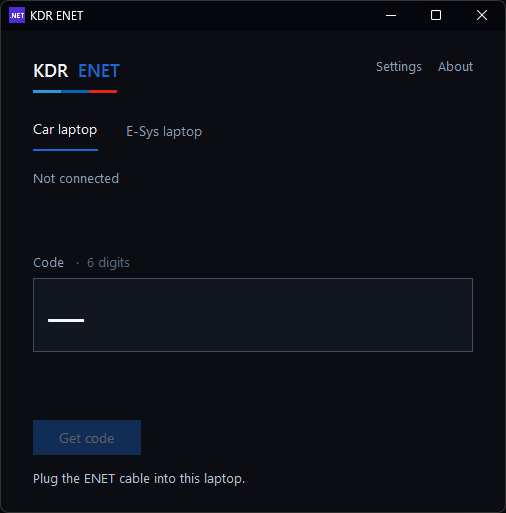
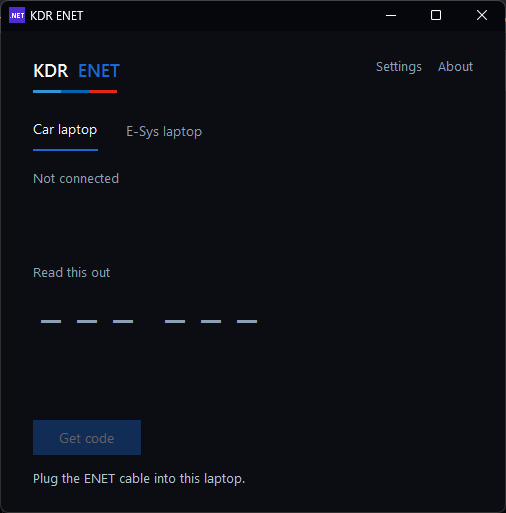
Split the session code into six boxes, and show the car laptop a readout instead.

diff --git a/MainWindow.xaml b/MainWindow.xaml
@@ -89,25 +89,42 @@
             </Setter>
         </Style>
 
-        <Style x:Key="CodeBox" TargetType="TextBox">
+        <Style x:Key="DigitBox" TargetType="TextBox">
+            <Setter Property="Width" Value="56"/>
+            <Setter Property="Height" Value="64"/>
+            <Setter Property="MaxLength" Value="1"/>
+            <Setter Property="FontSize" Value="26"/>
+            <Setter Property="FontWeight" Value="SemiBold"/>
             <Setter Property="Background" Value="#12161e"/>
             <Setter Property="Foreground" Value="#f4f7fb"/>
             <Setter Property="CaretBrush" Value="#f4f7fb"/>
             <Setter Property="BorderBrush" Value="#3d4d66"/>
             <Setter Property="BorderThickness" Value="1"/>
-            <Setter Property="FontSize" Value="32"/>
-            <Setter Property="MinHeight" Value="64"/>
-            <Setter Property="Padding" Value="14,10"/>
+            <Setter Property="HorizontalContentAlignment" Value="Center"/>
             <Setter Property="VerticalContentAlignment" Value="Center"/>
+            <Setter Property="Margin" Value="0,0,8,0"/>
             <Setter Property="Template">
                 <Setter.Value>
                     <ControlTemplate TargetType="TextBox">
-                        <Border Background="{TemplateBinding Background}" BorderBrush="{TemplateBinding BorderBrush}" BorderThickness="{TemplateBinding BorderThickness}" Padding="{TemplateBinding Padding}">
-                            <ScrollViewer x:Name="PART_ContentHost" VerticalAlignment="Center"/>
+                        <Border Background="{TemplateBinding Background}" BorderBrush="{TemplateBinding BorderBrush}" BorderThickness="{TemplateBinding BorderThickness}">
+                            <ScrollViewer x:Name="PART_ContentHost" HorizontalAlignment="Center" VerticalAlignment="Center"/>
                         </Border>
                     </ControlTemplate>
                 </Setter.Value>
             </Setter>
+        </Style>
+
+        <Style x:Key="DigitRead" TargetType="TextBlock">
+            <Setter Property="FontSize" Value="40"/>
+            <Setter Property="FontWeight" Value="SemiBold"/>
+            <Setter Property="Width" Value="36"/>
+            <Setter Property="TextAlignment" Value="Center"/>
+            <Setter Property="Foreground" Value="#8ea0b5"/>
+            <Style.Triggers>
+                <DataTrigger Binding="{Binding CodeReady}" Value="True">
+                    <Setter Property="Foreground" Value="#f4f7fb"/>
+                </DataTrigger>
+            </Style.Triggers>
         </Style>
 
         <Style x:Key="TextButton" TargetType="Button">
@@ -169,28 +186,30 @@
 
         <StackPanel Grid.Row="3" VerticalAlignment="Center">
             <StackPanel Visibility="{Binding IsCarSide, Converter={StaticResource BoolVis}}">
-                <TextBlock FontSize="13" Foreground="#8ea0b5" Margin="0,0,0,8">
-                    <Run Text="Code"/>
-                    <Run Text="  ·  6 digits" Foreground="#5c6b80"/>
-                </TextBlock>
-                <Border Background="#12161e" BorderBrush="#3d4d66" BorderThickness="1" Padding="14,12" MinHeight="64">
-                    <TextBlock Text="{Binding DisplayCode}" FontSize="36" FontWeight="SemiBold" VerticalAlignment="Center"/>
-                </Border>
+                <TextBlock Text="Read this out" FontSize="13" Foreground="#8ea0b5" Margin="0,0,0,10"/>
+                <StackPanel Orientation="Horizontal">
+                    <TextBlock Text="{Binding Shown0}" Style="{StaticResource DigitRead}"/>
+                    <TextBlock Text="{Binding Shown1}" Style="{StaticResource DigitRead}"/>
+                    <TextBlock Text="{Binding Shown2}" Style="{StaticResource DigitRead}" Margin="0,0,16,0"/>
+                    <TextBlock Text="{Binding Shown3}" Style="{StaticResource DigitRead}"/>
+                    <TextBlock Text="{Binding Shown4}" Style="{StaticResource DigitRead}"/>
+                    <TextBlock Text="{Binding Shown5}" Style="{StaticResource DigitRead}"/>
+                </StackPanel>
             </StackPanel>
             <StackPanel Visibility="{Binding IsTechSide, Converter={StaticResource BoolVis}}">
-                <TextBlock FontSize="13" Foreground="#8ea0b5" Margin="0,0,0,8">
-                    <Run Text="Code"/>
-                    <Run Text="  ·  6 digits" Foreground="#5c6b80"/>
+                <TextBlock Text="Type the code" FontSize="13" Foreground="#8ea0b5" Margin="0,0,0,10"/>
+                <StackPanel Orientation="Horizontal">
+                    <TextBox x:Name="Digit0" Style="{StaticResource DigitBox}"/>
+                    <TextBox x:Name="Digit1" Style="{StaticResource DigitBox}"/>
+                    <TextBox x:Name="Digit2" Style="{StaticResource DigitBox}" Margin="0,0,18,0"/>
+                    <TextBox x:Name="Digit3" Style="{StaticResource DigitBox}"/>
+                    <TextBox x:Name="Digit4" Style="{StaticResource DigitBox}"/>
+                    <TextBox x:Name="Digit5" Style="{StaticResource DigitBox}" Margin="0"/>
+                </StackPanel>
+                <TextBlock Margin="0,18,0,0" FontSize="14">
+                    <Run Text="E-Sys address" Foreground="#8ea0b5"/>
+                    <Run Text="   127.0.0.1" Foreground="#f4f7fb" FontSize="18" FontWeight="SemiBold"/>
                 </TextBlock>
-                <TextBox Style="{StaticResource CodeBox}"
-                         Text="{Binding CodeInput, UpdateSourceTrigger=PropertyChanged}"
-                         MaxLength="6"
-                         PreviewTextInput="Code_Preview"
-                         DataObject.Pasting="Code_Paste"/>
-                <TextBlock Margin="0,14,0,8" FontSize="13" Foreground="#8ea0b5" Text="E-Sys address"/>
-                <Border Background="#12161e" BorderBrush="#3d4d66" BorderThickness="1" Padding="14,10">
-                    <TextBlock Text="127.0.0.1" FontSize="22" FontWeight="SemiBold"/>
-                </Border>
             </StackPanel>
         </StackPanel>
 

diff --git a/MainWindow.xaml.cs b/MainWindow.xaml.cs
@@ -23,6 +23,7 @@ public partial class MainWindow : Window
     public MainWindow()
     {
         InitializeComponent();
+        WireSlots();
         DataContext = _vm;
         var version = Assembly.GetExecutingAssembly().GetName().Version;
         _vm.VersionText = version is null ? "1.0" : version.Major + "." + version.Minor;
@@ -177,37 +178,115 @@ public partial class MainWindow : Window
         await ScanAsync(probe: true);
     }
 
-    private void Code_Preview(object sender, TextCompositionEventArgs e)
+    private bool _fillingSlots;
+
+    private TextBox[] Slots() => [Digit0, Digit1, Digit2, Digit3, Digit4, Digit5];
+
+    private void WireSlots()
     {
-        foreach (var character in e.Text)
+        foreach (var slot in Slots())
         {
-            if (character is < '0' or > '9')
-            {
-                e.Handled = true;
-                return;
-            }
+            slot.PreviewTextInput += Slot_Preview;
+            slot.PreviewKeyDown += Slot_Key;
+            slot.TextChanged += Slot_Changed;
+            DataObject.AddPastingHandler(slot, Slot_Paste);
         }
     }
 
-    private void Code_Paste(object sender, DataObjectPastingEventArgs e)
+    private int SlotIndex(TextBox box)
     {
+        var slots = Slots();
+        for (var i = 0; i < slots.Length; i++)
+        {
+            if (ReferenceEquals(slots[i], box))
+                return i;
+        }
+
+        return 0;
+    }
+
+    private void Slot_Preview(object sender, TextCompositionEventArgs e)
+    {
+        if (sender is not TextBox box || e.Text.Length != 1 || e.Text[0] is < '0' or > '9')
+        {
+            e.Handled = true;
+            return;
+        }
+
+        _fillingSlots = true;
+        box.Text = e.Text;
+        _fillingSlots = false;
+        e.Handled = true;
+        PullCode();
+        var next = SlotIndex(box) + 1;
+        if (next < 6)
+            Slots()[next].Focus();
+    }
+
+    private void Slot_Key(object sender, KeyEventArgs e)
+    {
+        if (sender is not TextBox box)
+            return;
+        var index = SlotIndex(box);
+        var slots = Slots();
+        if (e.Key == Key.Back && box.Text.Length == 0 && index > 0)
+        {
+            slots[index - 1].Text = "";
+            slots[index - 1].Focus();
+            e.Handled = true;
+        }
+        else if (e.Key == Key.Left && index > 0)
+        {
+            slots[index - 1].Focus();
+            e.Handled = true;
+        }
+        else if (e.Key == Key.Right && index < 5)
+        {
+            slots[index + 1].Focus();
+            e.Handled = true;
+        }
+    }
+
+    private void Slot_Changed(object sender, TextChangedEventArgs e)
+    {
+        if (_fillingSlots)
+            return;
+        PullCode();
+    }
+
+    private void Slot_Paste(object sender, DataObjectPastingEventArgs e)
+    {
+        e.CancelCommand();
         if (sender is not TextBox box || !e.DataObject.GetDataPresent(DataFormats.Text))
-        {
-            e.CancelCommand();
             return;
-        }
-
         var digits = SessionLink.Digits(e.DataObject.GetData(DataFormats.Text) as string);
-        var room = 6 - (box.Text.Length - box.SelectionLength);
-        if (digits.Length == 0 || room <= 0)
-        {
-            e.CancelCommand();
+        if (digits.Length == 0)
             return;
+        if (digits.Length > 6)
+            digits = digits[..6];
+        var start = digits.Length == 6 ? 0 : SlotIndex(box);
+        var slots = Slots();
+        _fillingSlots = true;
+        var at = start;
+        foreach (var character in digits)
+        {
+            if (at >= slots.Length)
+                break;
+            slots[at].Text = character.ToString();
+            at++;
         }
+        _fillingSlots = false;
+        PullCode();
+        slots[Math.Min(at, 5)].Focus();
+    }
 
-        if (digits.Length > room)
-            digits = digits[..room];
-        e.DataObject = new DataObject(DataFormats.Text, digits);
+    private void PullCode()
+    {
+        var text = string.Concat(Slots().Select(slot => SessionLink.Digits(slot.Text)));
+        if (text.Length > 6)
+            text = text[..6];
+        if (_vm.CodeInput != text)
+            _vm.CodeInput = text;
     }
 
     private async void Join_Click(object sender, RoutedEventArgs e)
@@ -281,6 +360,8 @@ public partial class MainWindow : Window
         _signature = "";
         PaintRoles();
         SetNextStep(_lastScan);
+        if (!car)
+            Digit0.Focus();
     }
 
     private void PaintRoles()

diff --git a/SessionViewModel.cs b/SessionViewModel.cs
@@ -199,6 +199,21 @@ public sealed class SessionViewModel : INotifyPropertyChanged
 
     public string DisplayCode => SessionLink.Digits(SessionCode).Length == 6 ? SessionLink.FormatCode(SessionCode) : "—";
 
+    public bool CodeReady => SessionLink.Digits(SessionCode).Length == 6;
+
+    public string Shown0 => ShownAt(0);
+    public string Shown1 => ShownAt(1);
+    public string Shown2 => ShownAt(2);
+    public string Shown3 => ShownAt(3);
+    public string Shown4 => ShownAt(4);
+    public string Shown5 => ShownAt(5);
+
+    private string ShownAt(int index)
+    {
+        var digits = SessionLink.Digits(SessionCode);
+        return digits.Length == 6 ? digits[index].ToString() : "–";
+    }
+
     public string CarHelp => SessionLink.Digits(SessionCode).Length == 6
         ? "Read this code to the E-Sys laptop. Leave this window open."
         : "Click Get code. The number shows here. Read it to the E-Sys laptop.";
@@ -231,6 +246,13 @@ public sealed class SessionViewModel : INotifyPropertyChanged
         OnPropertyChanged(nameof(StartLabel));
         OnPropertyChanged(nameof(JoinLabel));
         OnPropertyChanged(nameof(DisplayCode));
+        OnPropertyChanged(nameof(CodeReady));
+        OnPropertyChanged(nameof(Shown0));
+        OnPropertyChanged(nameof(Shown1));
+        OnPropertyChanged(nameof(Shown2));
+        OnPropertyChanged(nameof(Shown3));
+        OnPropertyChanged(nameof(Shown4));
+        OnPropertyChanged(nameof(Shown5));
         OnPropertyChanged(nameof(CarHelp));
         OnPropertyChanged(nameof(CopyLabel));
         OnPropertyChanged(nameof(ShowCopy));

diff --git a/README.md b/README.md
@@ -16,15 +16,15 @@ The laptop on the car and the laptop running E-Sys do not need the same Wi-Fi. T
 
 1. Open KDR ENET → **Car laptop**
 2. Cable in. Ignition on. Wait until the module is awake
-3. **Get code** — the number shows up in the **Code** box
-4. Read it to the other laptop. Leave this window open
+3. **Get code** — read the six numbers out loud
+4. Leave this window open
 
 Cables for the session: **ENET**, **MHD**, **ICOM**.
 
 ## E-Sys laptop
 
 1. Open KDR ENET → **E-Sys laptop**
-2. Type the code in the **Code** box → **Join**
+2. Type the code in the **6 boxes** → **Join**
 3. In E-Sys set the address to `127.0.0.1`
 4. Leave this window open
 
